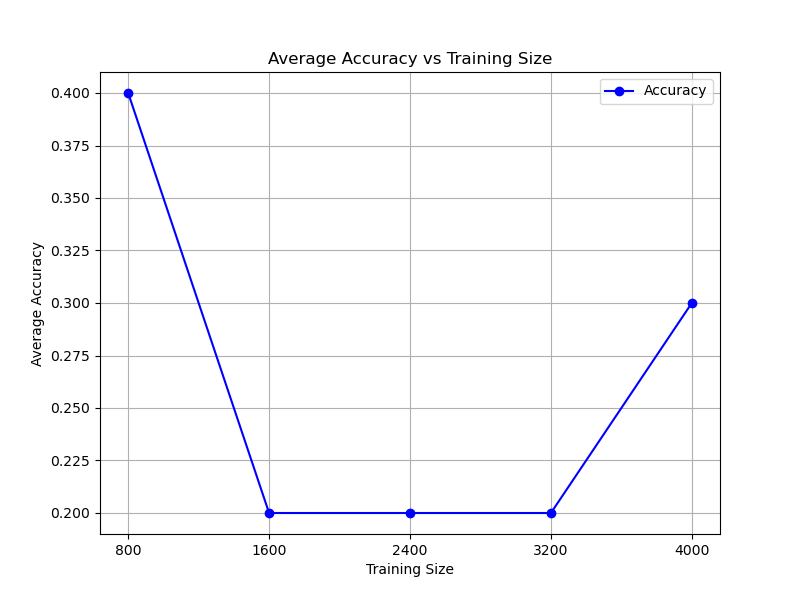
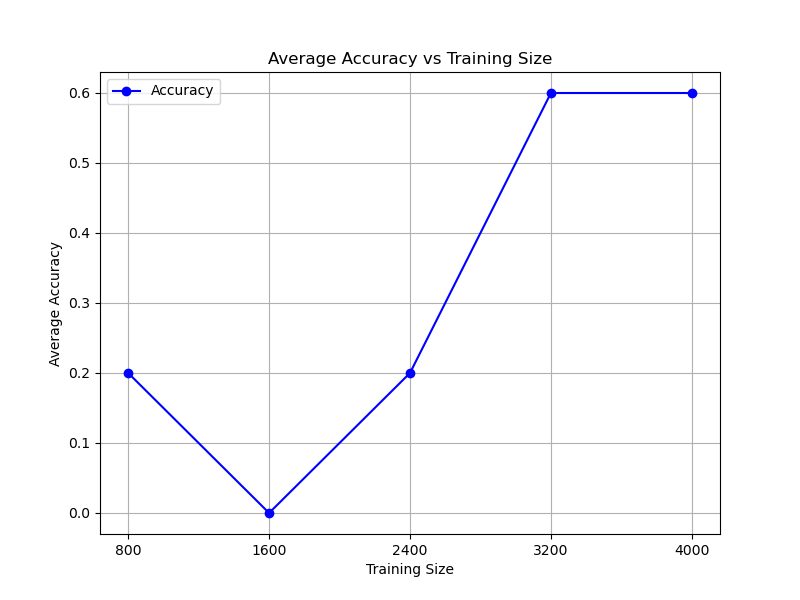
1111 homework review

diff --git a/naive_bayes_classifier.py b/naive_bayes_classifier.py
@@ -58,7 +58,7 @@ results = []
 for train_size in train_sizes:
     accuracies = []
     for _ in range(5):
-        x_train, x_test, y_train, y_test = train_test_split(x, y, test_size=0.3, random_state=None)
+        x_train, x_test, y_train, y_test = train_test_split(x, y, test_size=0.2, random_state=None)
 
         predictions = naive_bayes(x_train, y_train, x_test)
         accuracy = accuracy_score(y_test, predictions)
